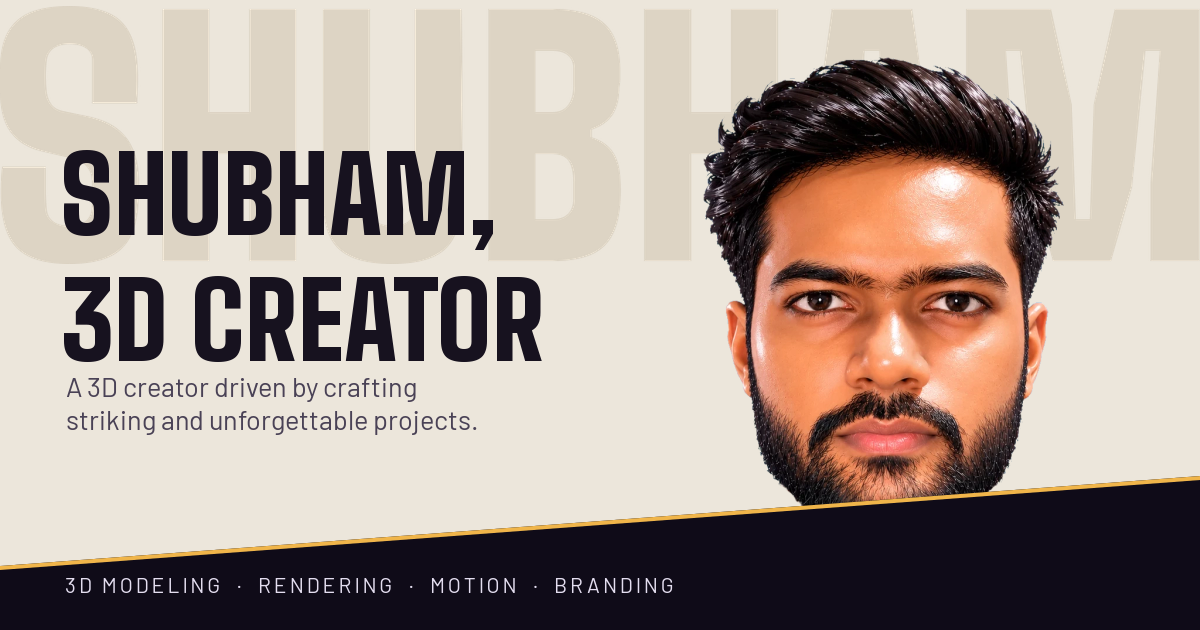
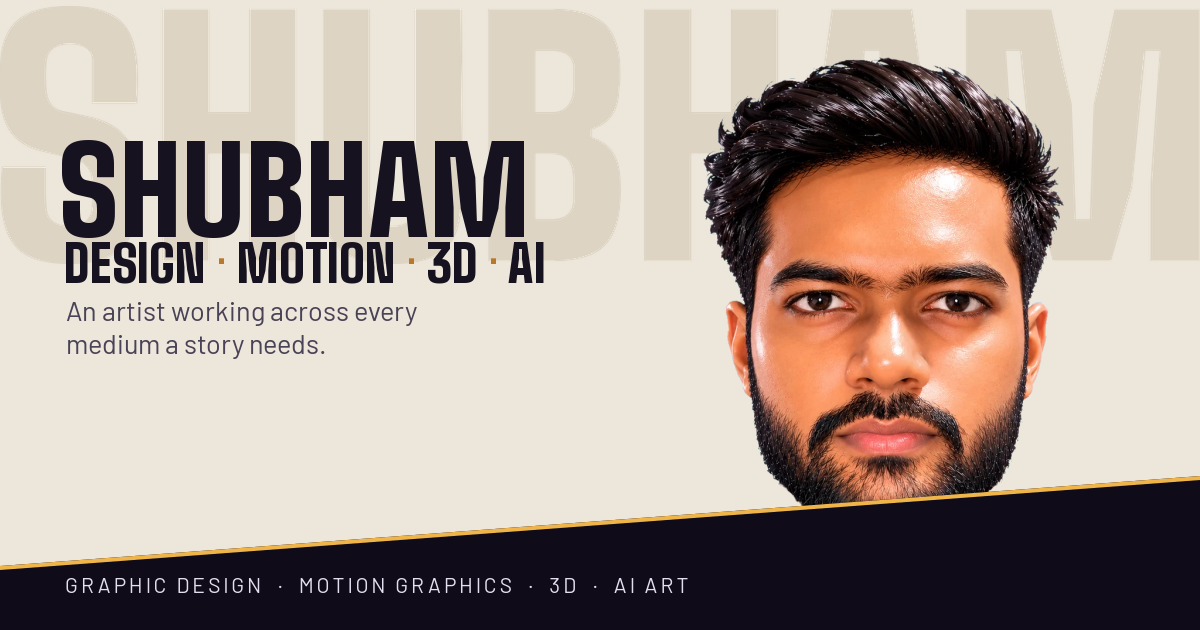
Hero: present as a multidisciplinary artist (design, motion, 3D, AI)
- Heading is now "Design · Motion / 3D · AI" (the name stays in the
  giant backdrop), with the line "An artist working across every
  medium a story needs."
- Page title, search description, share tags and structured data now
  say Visual Artist: graphic design, motion graphics, 3D and AI art
- Link-preview image regenerated to match

diff --git a/index.html b/index.html
@@ -3,25 +3,25 @@
   <head>
     <meta charset="UTF-8" />
     <meta name="viewport" content="width=device-width, initial-scale=1.0" />
-    <title>Shubham — 3D Creator</title>
-    <meta name="description" content="Shubham is a 3D creator crafting striking and unforgettable projects: 3D modeling, rendering, motion design, branding and web design." />
+    <title>Shubham — Visual Artist</title>
+    <meta name="description" content="Shubham is a visual artist working across graphic design, motion graphics, 3D and AI art — creating striking, unforgettable work for brands and stories." />
     <meta name="author" content="Shubham" />
     <!-- If the site moves to a new address, update this URL in the tags below (canonical, og:url, og:image, twitter:image) and in public/sitemap.xml + public/robots.txt -->
     <link rel="canonical" href="https://shubhamportfolio.in/" />
 
     <!-- link previews (WhatsApp, LinkedIn, Facebook, X, Slack…) — image made by `npm run social` -->
     <meta property="og:type" content="website" />
-    <meta property="og:site_name" content="Shubham — 3D Creator" />
-    <meta property="og:title" content="Shubham — 3D Creator" />
-    <meta property="og:description" content="3D modeling, rendering, motion design and branding. Step inside the portfolio and meet the living portrait." />
+    <meta property="og:site_name" content="Shubham — Visual Artist" />
+    <meta property="og:title" content="Shubham — Visual Artist" />
+    <meta property="og:description" content="Graphic design, motion graphics, 3D and AI art. Step inside the portfolio and meet the living portrait." />
     <meta property="og:url" content="https://shubhamportfolio.in/" />
     <meta property="og:image" content="https://shubhamportfolio.in/og-image.png" />
     <meta property="og:image:width" content="1200" />
     <meta property="og:image:height" content="630" />
-    <meta property="og:image:alt" content="Shubham, 3D creator — portfolio" />
+    <meta property="og:image:alt" content="Shubham, visual artist — design, motion, 3D and AI" />
     <meta name="twitter:card" content="summary_large_image" />
-    <meta name="twitter:title" content="Shubham — 3D Creator" />
-    <meta name="twitter:description" content="3D modeling, rendering, motion design and branding." />
+    <meta name="twitter:title" content="Shubham — Visual Artist" />
+    <meta name="twitter:description" content="Graphic design, motion graphics, 3D and AI art." />
     <meta name="twitter:image" content="https://shubhamportfolio.in/og-image.png" />
 
     <!-- icons -->
@@ -31,7 +31,7 @@
 
     <!-- tells search engines who this site is about -->
     <script type="application/ld+json">
-      {"@context":"https://schema.org","@type":"Person","name":"Shubham","jobTitle":"3D Creator","url":"https://shubhamportfolio.in/"}
+      {"@context":"https://schema.org","@type":"Person","name":"Shubham","jobTitle":"Visual Artist — graphic design, motion graphics, 3D and AI art","url":"https://shubhamportfolio.in/"}
     </script>
 
     <link rel="preconnect" href="https://fonts.googleapis.com" />

diff --git a/src/sections/HeroSection.tsx b/src/sections/HeroSection.tsx
@@ -68,8 +68,13 @@ export default function HeroSection() {
               <img src={projects[0].col2} alt="" className="aspect-[3/4] w-full rounded-[5px] object-cover" />
             </span>
           </a>
-          <h1 className="font-display text-[clamp(1.6rem,2.6vw,2.4rem)] font-black uppercase leading-[0.9]">
-            I’m {name}, 3D creator
+          {/* what I do, one discipline per beat; the name itself is the giant backdrop behind the portrait */}
+          <h1 aria-label={`${name}: artist in graphic design, motion, 3D and AI`} className="font-display text-[clamp(1.35rem,2.6vw,2.4rem)] font-black uppercase leading-[0.92]">
+            {[['Design', 'Motion'], ['3D', 'AI']].map(([a, b]) => (
+              <span key={a} className="block whitespace-nowrap">
+                {a} <span className="text-[#b9782a]">·</span> {b}
+              </span>
+            ))}
           </h1>
           <p className="mt-3 font-body text-[0.95rem] leading-snug text-ink-soft first-letter:uppercase md:text-base">{site.tagline}.</p>
         </FadeIn>

diff --git a/src/data/content.ts b/src/data/content.ts
@@ -7,7 +7,7 @@
 export const site = {
   // Your name: used in the hero heading, loader, footer and image text
   name: 'shubham',
-  tagline: 'a 3D creator driven by crafting striking and unforgettable projects',
+  tagline: 'an artist working across every medium a story needs',
   about:
     "With more than five years of experience in design, i focus on branding, web design, and user experience, i truly enjoy working with businesses that aim to stand out and present their best image. Let's build something incredible together!",
   // Contact details: shown in the footer, the closing section and on the /contact page
